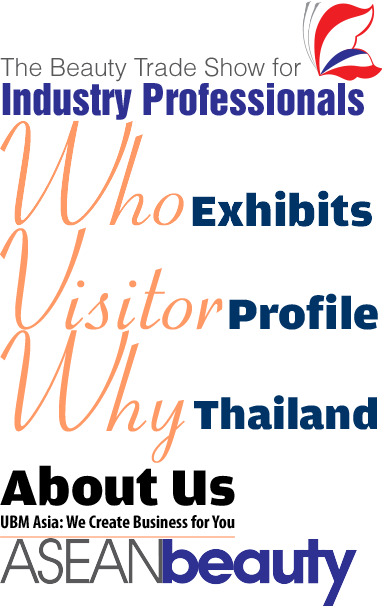
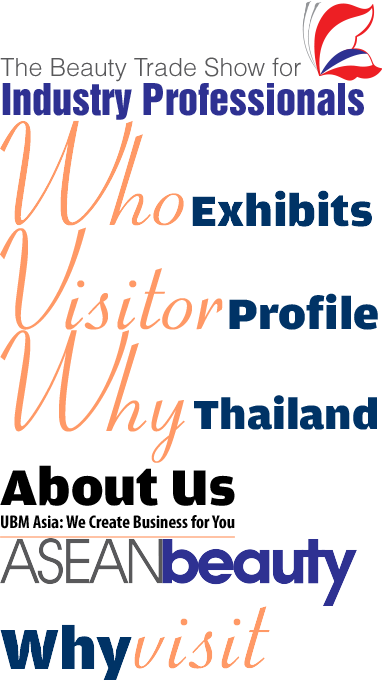
add page visitor detail update margin top of each section in parallax home page

diff --git a/visitor.html b/visitor.html
@@ -1,0 +1,96 @@
+<!DOCTYPE html>
+<html class="no-js">
+<head>
+    <meta charset="utf-8">
+    <meta http-equiv="X-UA-Compatible" content="IE=edge">
+    <title>ASEANbeauty</title>
+    <meta name="description" content="">
+    <meta name="viewport" content="width=device-width, initial-scale=1">
+    <!-- Place favicon.ico and apple-touch-icon(s) in the root directory -->
+    <link rel="stylesheet" href="css/normalize.css">
+    <link rel="stylesheet" href="css/fonts.css">
+    <link rel="stylesheet" href="css/main.css">
+    <link rel="stylesheet" href="css/asianbeauty.css">
+    <script src="js/vendor/modernizr-2.7.1.min.js"></script>
+</head>
+<body>
+    <header id="header" class="clearfix">
+        <div class="container">
+            <nav id="nav">
+                <h1 class="pull-left logo-wrap">
+                    <img class="logo-img" src="img/logo.png" alt="aseanbeauty's logo" />
+                </h1>
+                <ul class="navbar pull-left">
+                    <li><a class="nav-item home text-color-dark-gray" href="intro" title="home page" alt="link">Home</a></li>
+                    <li><a class="nav-item text-color-dark-gray" href="exhibit" title="who exhibit page" alt="link">Who Exhibit</a></li>
+                    <li><a class="nav-item text-color-dark-gray" href="visitor" title="visitor page" alt="link">Visitor</a></li>
+                    <li><a class="nav-item text-color-dark-gray" href="press.html" title="press center page" alt="link">Press Center</a></li>
+                    <li><a class="nav-item text-color-dark-gray" href="about" title="about us page" alt="link">About Us</a></li>
+                    <li><a class="nav-item text-color-dark-gray" href="contact.html" title="contact us page" alt="link">Contact Us</a></li>
+                </ul>
+            </nav>
+        </div>
+    </header>
+    <div id="main" class="clearfix">
+        <section id="visitor" class="section">
+            <div class="container clearfix">
+                <div class="visitor-img-container pull-left">
+                    <div class="visitor-img el1"></div>
+                    <div class="visitor-img el2"></div>
+                    <div class="visitor-img el3"></div>
+                    <div class="visitor-img el4"></div>
+                    <div class="visitor-img el5"></div>
+                    <div class="visitor-img el6"></div>
+                    <div class="visitor-img el7"></div>
+                </div>
+                <div class="visitor-content pull-right">
+                    <h1 class="visitor-title text-bg">Visitor Profile</h1>
+                    <p>Thailand’s beauty industry is well known and our exciting exhibitors will bring global business all under one roof. </p>
+                    <p>By visiting <span class="text-bold">ASEANbeauty</span>, attendees efficiently and effectively gain immediate competitive advantage for their business and keep abreast with the latest developments in the beauty industry.</p>
+                    <ul class="list">
+                        <li class="list-item"><span class="text-color-black">Beauty & Health Product Manufacturers, Distributors, Agents.</span></li>
+                        <li class="list-item"><span class="text-color-black">Beauty Salon & Spa </span></li>
+                        <li class="list-item"><span class="text-color-black">Trade Importers</span></li>
+                        <li class="list-item"><span class="text-color-black">Hotels</span></li>
+                        <li class="list-item"><span class="text-color-black">Aesthetic and Wellness Center</span></li>
+                        <li class="list-item"><span class="text-color-black">Department Stores & Supermarkets</span></li>
+                        <li class="list-item"><span class="text-color-black">Pharmacies</span></li>
+                        <li class="list-item"><span class="text-color-black">Associations</span></li>
+                        <li class="list-item"><span class="text-color-black">Government Bodies</span></li>
+                    </ul>
+                    <h1 class="visitor-title-2 text-bg">Why visit</h1>
+                    <p>Join over 150 professionals at the leading beauty trade exhibition for South East Asia for three days of networking and unlimited business opportunities. Discover hundreds of new beauty products, services and innovative solutions essential for your business. Visit ASEANbeauty for a unique and powerful  opportunity to make the connections that matter to drive your business into the future.</p>
+                    <ul class="list">
+                        <li class="list-item"><span class="text-color-black">The premier beauty trade event bringing together international products and services all under one roof! Network with local and international companies and grow your business!</span></li>
+                        <li class="list-item"><span class="text-color-black">Watch live demos in hair and make up to inspire you.</span></li>
+                        <li class="list-item"><span class="text-color-black">Attend the ASEAN International Beauty Conference and learn from industry experts about current trends in the market.</span></li>
+                    </ul>
+                </div>
+            </div>
+        </section>
+    </div>
+    <footer id="footer" class="clearfix">
+        <div class="container">
+            <img class="pull-right logo-ubm" src="img/ubm.png" alt="UBM logo" />
+            <p>Copyright © 2013 Philippines International Beauty Show.</p>
+            <p>All rights reserved.</p>
+
+        </div>
+    </footer>
+    <!--<script src="//ajax.googleapis.com/ajax/libs/jquery/1.10.2/jquery.min.js"></script>-->
+    <script>        window.jQuery || document.write('<script src="js/vendor/jquery-1.10.2.min.js"><\/script>')</script>
+    <script src="js/waypoints.min.js"></script>
+    <script src="js/plugins.js"></script>
+    <!-- Google Analytics: change UA-XXXXX-X to be your site's ID. -->
+    <script>
+        (function (b, o, i, l, e, r) {
+            b.GoogleAnalyticsObject = l; b[l] || (b[l] =
+            function () { (b[l].q = b[l].q || []).push(arguments) }); b[l].l = +new Date;
+            e = o.createElement(i); r = o.getElementsByTagName(i)[0];
+            e.src = '//www.google-analytics.com/analytics.js';
+            r.parentNode.insertBefore(e, r)
+        }(window, document, 'script', 'ga'));
+        ga('create', 'UA-XXXXX-X'); ga('send', 'pageview');
+    </script>
+</body>
+</html>

diff --git a/css/asianbeauty.css b/css/asianbeauty.css
@@ -52,7 +52,7 @@ p {
 
 .list {
     list-style: disc none outside;
-    margin: 0 0 20px 15px;
+    margin: 0 0 15px 15px;
     padding: 0 15px;
 }
 
@@ -69,12 +69,12 @@ p {
 /* Header */
 
 #header {
+    background: #fff url(../img/header-border.jpg) repeat-x 0 100%;
     padding-bottom: 5px;
     z-index: 6;
 }
 
-body.parallax #header {
-    background: #fff url(../img/header-border.jpg) repeat-x 0 100%;
+.parallax #header {
     left: 0;
     position: fixed;
     top: 0;
@@ -180,7 +180,7 @@ body.parallax #header {
 }
 
     #who-exhibits .exhibits-content {
-        margin: 120px 0 0 560px;
+        margin: 100px 0 0 560px;
         width: 395px;
     }
 
@@ -205,7 +205,7 @@ body.parallax #header {
     #who-exhibits .exhibits-text-highlight {
         background: #dc7145;
         color: #fff;
-        font-size: 1.7em;
+        font-size: 1.63em;
         line-height: 1em;
         display: block;
         padding: 5px 10px;
@@ -229,7 +229,7 @@ body.parallax #header {
         background-position: 0 0;
         height: 108px;
         left: 0;
-        top: 232px;
+        top: 212px;
         width: 265px;
     }
 
@@ -237,7 +237,7 @@ body.parallax #header {
         background-position: -265px 0;
         height: 217px;
         left: 265px;
-        top: 232px;
+        top: 212px;
         width: 132px;
     }
 
@@ -245,7 +245,7 @@ body.parallax #header {
         background-position: -397px 0;
         height: 298px;
         left: 397px;
-        top: 232px;
+        top: 212px;
         width: 148px;
     }
 
@@ -253,7 +253,7 @@ body.parallax #header {
         background-position: 0 -108px;
         height: 219px;
         left: 0;
-        top: 339px;
+        top: 319px;
         width: 131px;
     }
 
@@ -261,7 +261,7 @@ body.parallax #header {
         background-position: -131px -108px;
         height: 109px;
         left: 131px;
-        top: 339px;
+        top: 319px;
         width: 134px;
     }
 
@@ -269,7 +269,7 @@ body.parallax #header {
         background-position: -131px -217px;
         height: 110px;
         left: 131px;
-        top: 463px;
+        top: 428px;
         width: 266px;
     }
 
@@ -277,100 +277,116 @@ body.parallax #header {
         background-position: -397px -299px;
         height: 29px;
         left: 398px;
-        top: 545px;
+        top: 510px;
         width: 148px;
     }
 
 #visitor {
-    background: url(../img/visitor-bg.jpg) 50% 0 no-repeat fixed;
+    background: url(../img/visitor-detail-bg.jpg) 0 0 no-repeat;
     height: 981px;
     position: relative;
     z-index: 3;
 }
 
-    #visitor .visitor-content {
-        margin: 195px 0 0 0;
+.parallax #visitor {
+    background: url(../img/visitor-bg.jpg) 50% 0 no-repeat fixed;
+}
+
+    .parallax #visitor .visitor-content {
+        margin: 155px 0 0 0;
         width: 380px;
     }
 
-    #visitor .visitor-title {
-        background-position: 0 -227px;
-        height: 103px;
-        margin-bottom: 20px;
-        width: 378px;
-    }
+#visitor .visitor-content {
+    margin: 45px 0 0 0;
+    width: 380px;
+}
 
-    #visitor .visitor-link {
-        background-color: #ff9966;
-        color: #fff;
-        font-size: 1.25em;
-        padding: 5px 15px;
-    }
+#visitor .visitor-title {
+    background-position: 0 -227px;
+    height: 103px;
+    margin-bottom: 20px;
+    width: 378px;
+}
 
-    #visitor .visitor-img-container {
-        background-color: #d5d1bd;
-        height: 490px;
-        margin-top: 175px;
-        position: relative;
-        width: 500px;
-    }
+#visitor .visitor-title-2 {
+    background-position: 0 -606px;
+    height: 74px;
+    margin-bottom: 5;
+    width: 270px;
+}
 
-    #visitor .visitor-img {
-        background: url(../img/visitor-imgs.jpg) no-repeat;
-        top: 0;
-        position: absolute;
-    }
+#visitor .visitor-link {
+    background-color: #ff9966;
+    color: #fff;
+    font-size: 1.25em;
+    padding: 5px 15px;
+}
 
-    #visitor .el1 {
-        background-position: 0 0;
-        height: 276px;
-        left: 0;
-        width: 93px;
-    }
+#visitor .visitor-img-container {
+    background-color: #d5d1bd;
+    height: 490px;
+    margin-top: 155px;
+    position: relative;
+    width: 500px;
+}
 
-    #visitor .el2 {
-        background-position: -99px 0;
-        height: 276px;
-        left: 99px;
-        width: 96px;
-    }
+#visitor .visitor-img {
+    background: url(../img/visitor-imgs.jpg) no-repeat;
+    top: 0;
+    position: absolute;
+}
 
-    #visitor .el3 {
-        background-position: -202px 0;
-        height: 276px;
-        left: 202px;
-        width: 95px;
-    }
+#visitor .el1 {
+    background-position: 0 0;
+    height: 276px;
+    left: 0;
+    width: 93px;
+}
 
-    #visitor .el4 {
-        background-position: -305px 0;
-        height: 276px;
-        left: 305px;
-        width: 94px;
-    }
+#visitor .el2 {
+    background-position: -99px 0;
+    height: 276px;
+    left: 99px;
+    width: 96px;
+}
 
-    #visitor .el5 {
-        background-position: 100% 0;
-        height: 276px;
-        left: 407px;
-        width: 94px;
-    }
+#visitor .el3 {
+    background-position: -202px 0;
+    height: 276px;
+    left: 202px;
+    width: 95px;
+}
 
-    #visitor .el6 {
-        background-position: 0 -281px;
-        height: 209px;
-        left: 0px;
-        top: 281px;
-        width: 297px;
-    }
+#visitor .el4 {
+    background-position: -305px 0;
+    height: 276px;
+    left: 305px;
+    width: 94px;
+}
 
-    #visitor .el7 {
-        background-position: 100% -281px;
-        height: 209px;
-        left: 305px;
-        top: 281px;
-        width: 196px;
-    }
+#visitor .el5 {
+    background-position: 100% 0;
+    height: 276px;
+    left: 407px;
+    width: 94px;
+}
+
+#visitor .el6 {
+    background-position: 0 -281px;
+    height: 209px;
+    left: 0px;
+    top: 281px;
+    width: 297px;
+}
+
+#visitor .el7 {
+    background-position: 100% -281px;
+    height: 209px;
+    left: 305px;
+    top: 281px;
+    width: 196px;
+}
 
 #about {
     background: url(../img/about-bg.jpg) 50% 0 no-repeat fixed;

diff --git a/home.html b/home.html
@@ -3,7 +3,7 @@
 <head>
     <meta charset="utf-8">
     <meta http-equiv="X-UA-Compatible" content="IE=edge">
-    <title></title>
+    <title>ASEANbeauty</title>
     <meta name="description" content="">
     <meta name="viewport" content="width=device-width, initial-scale=1">
     <!-- Place favicon.ico and apple-touch-icon(s) in the root directory -->

diff --git a/index.html b/index.html
@@ -3,7 +3,7 @@
 <head>
     <meta charset="utf-8">
     <meta http-equiv="X-UA-Compatible" content="IE=edge">
-    <title></title>
+    <title>ASEANbeauty</title>
     <meta name="description" content="">
     <meta name="viewport" content="width=device-width, initial-scale=1">
     <!-- Place favicon.ico and apple-touch-icon(s) in the root directory -->
